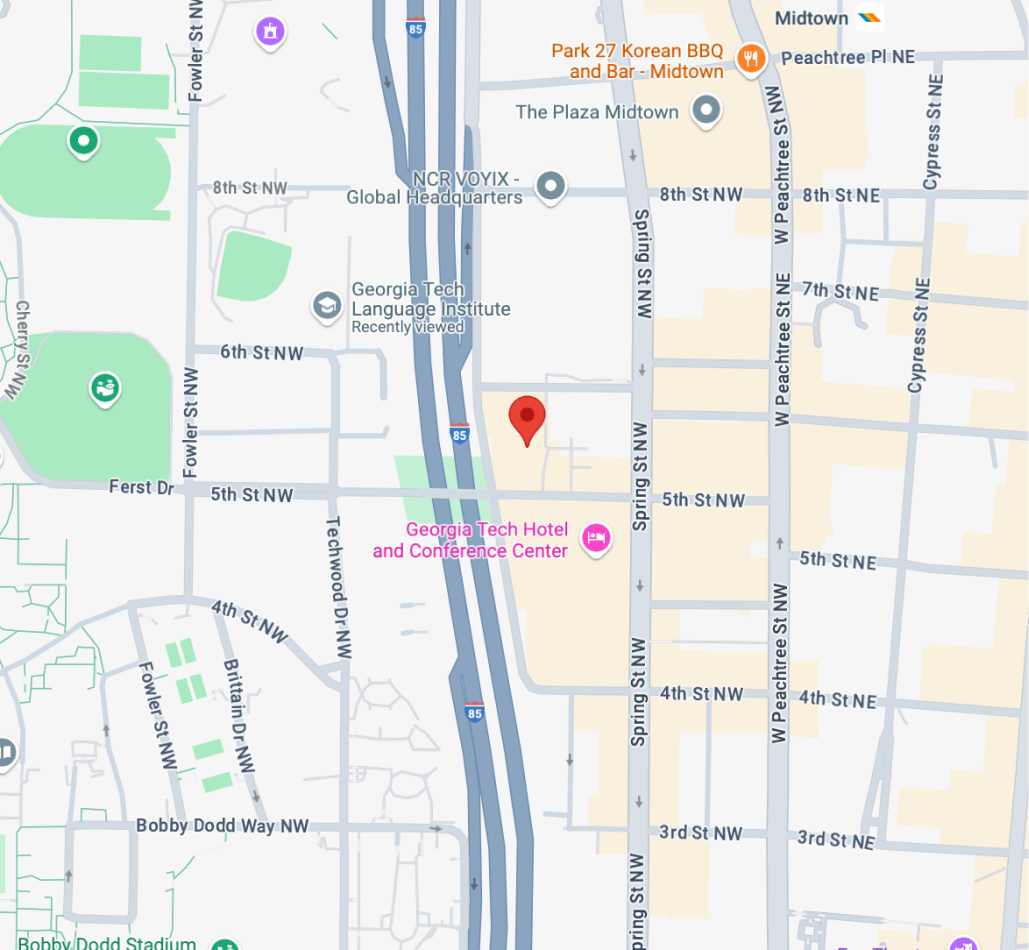
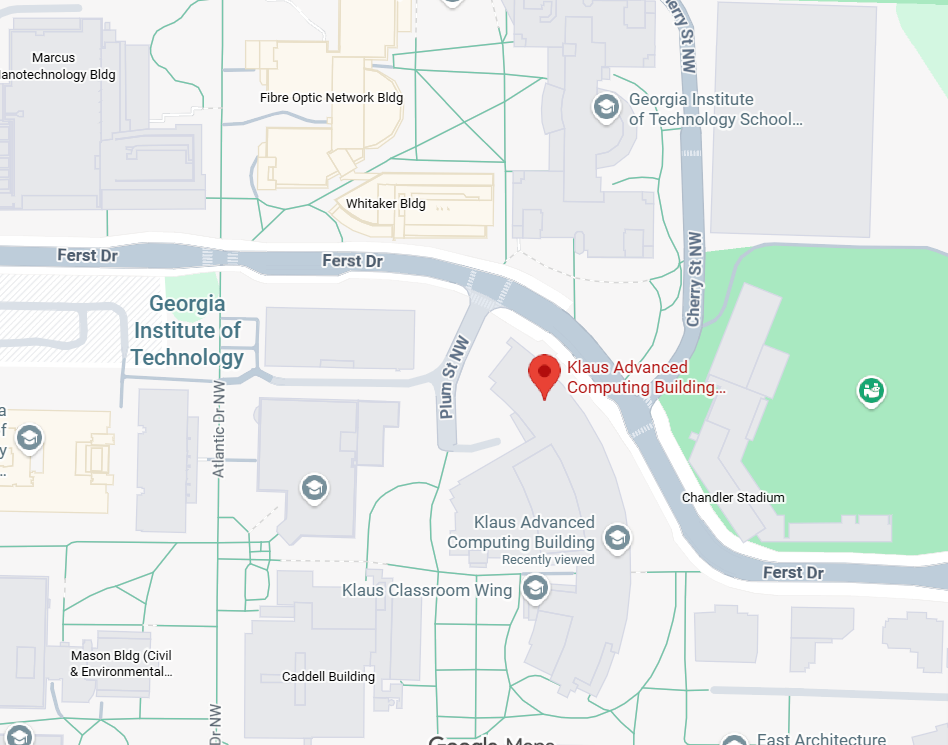
updates for hackathon 2026

diff --git a/src/components/Schedule.jsx b/src/components/Schedule.jsx
@@ -1,52 +1,13 @@
 const Schedule = () => {
-  const schedule = [
-    {
-      day: "Saturday",
-      date: "April 5th, 2025",
-      events: [
-        { time: "8:00 AM - 9:30 AM", event: "Welcome Breakfast, Check-In, & Late Registration" },
-        { time: "10:00 AM - 10:30 AM", event: "Hackathon Kickoff" },
-        { time: "10:30 AM - 11:30 AM", event: "Team Formation" },
-        { time: "11:30 AM - 12:30 PM", event: "Lunch and Networking" },
-        { time: "1:00 PM", event: "Hacking Begins" },
-        { time: "6:00 PM - 7:00 PM", event: "Dinner Served" },
-      ],
-    },
-    {
-      day: "Sunday",
-      date: "April 6th, 2025",
-      events: [
-        { time: "9:30 AM - 10:30 AM", event: "Breakfast" },
-        { time: "12:00 PM", event: "Hackathon Ends" },
-        { time: "12:00 PM - 1:30 PM", event: "Lunch" },
-        { time: "1:30 PM - 4:00 PM", event: "Judging & Skill-based Talk" },
-        { time: "4:00 PM", event: "Dinner Served" },
-        { time: "4:15 PM - 5:15 PM", event: "Award Ceremony and Closing Remarks" },
-      ],
-    },
-  ];
+  
 
   return (
-    <section id="schedule" className="font-[Roboto] py-25 px-8 bg-[#F9F6E5] flex justify-center item-center">
+    <section id="schedule" className="font-[Roboto] py-25 px-8 bg-[#F9F6E5] flex justify-center items-center">
       <div className="max-w-7xl mx-auto text-center">
         <h2 className="text-5xl font-bold mb-6 text-[#003057] font-[Anton]">Event Schedule</h2>
         <br />
-        <div className="grid grid-cols-1 md:grid-cols-2 gap-30">
-        {schedule.map(({ day, date, events }, index) => (
-          <div key={index} className="bg-[#003057] shadow rounded-lg p-6 text-white text-left">
-            <h3 className="text-3xl font-bold">{day}</h3>
-            <h4 className="text-lg mb-8 text-[#99CCF6]">{date}</h4>
-            <ul className="mt-2 space-y-4">
-              {events.map(({ time, event }, i) => (
-                <li key={i} className="">
-                  <span className="font-semibold text-lg">{time}:</span> 
-                  <br />
-                  <span className="text-xl">{event}</span>
-                </li>
-              ))}
-            </ul>
-          </div>
-        ))}
+        <div className="flex justify-center items-center">
+  <       img src="/images/schedules.png" alt="schedule" className="w-full h-auto rounded-lg shadow-md max-w-2xl" />
         </div>
       </div>
     </section>

diff --git a/src/components/About.jsx b/src/components/About.jsx
@@ -24,7 +24,7 @@ const About = () => {
           {/* Left: text */}
           <div className="flex-1">
             <p className="text-2xl text-left">
-              Georgia Tech's College of Computing introduces our inaugural co-sponsored hackathon: Ramblin' Hacks! This dynamic 2-day event will bring together talented students to tackle real-world challenges through creative coding and innovative solutions.
+              Georgia Tech's College of Computing introduces our second co-sponsored hackathon: Ramblin' Hacks! This dynamic 2-day event will bring together talented students to tackle real-world challenges through creative coding and innovative solutions.
             </p>
             <br />
             <div className="flex flex-row gap-2 items-center mt-6">
@@ -35,21 +35,19 @@ const About = () => {
               >
                 <img src={calendar} alt="calendar icon" className="w-11 h-auto" />
               </a>
-              <p className="text-2xl text-start">April 5th–6th</p>
+              <p className="text-2xl text-start">April 10th-11th</p>
             </div>
 
             <br />
             <div className="flex flex-row gap-2 items-center">
               <a
-                href="https://www.google.com/maps/search/?api=1&query=Tech+Square+Research+Building,+85+5th+St+NW,+Atlanta,+GA+30332"
-                target="_blank"
+                href="https://www.google.com/maps/place/Klaus+Advanced+Computing+Building,+Atrium/@33.7776843,-84.3987563,17z/data=!3m1!4b1!4m6!3m5!1s0x88f5052dfab4d669:0x8399d96b4a30b241!8m2!3d33.7776843!4d-84.3961814!16s%2Fg%2F11ff1yjjs8?entry=ttu&g_ep=EgoyMDI2MDMyNC4wIKXMDSoASAFQAw%3D%3D"
                 rel="noopener noreferrer"
               >
                 <img src={mappin} alt="map pin icon" className="w-11 h-auto cursor-pointer" />
               </a>
               <p className="text-2xl text-start">
-                Tech Square Research Building <br />
-                85 5th St NW, Atlanta, GA 30332
+                Klaus advanced computing building | 266 Ferst Dr, Atlanta, GA 30332
               </p>
             </div>
           </div>
@@ -61,6 +59,7 @@ const About = () => {
               alt="Google Maps location"
               className="w-full max-w-md rounded-xl shadow-md"
             />
+            
           </div>
         </div>
       </div>

diff --git a/src/components/Sponsors.jsx b/src/components/Sponsors.jsx
@@ -1,14 +1,14 @@
 const Sponsors = () => { 
   const sponsors = [
     {
-      name: "US Soccer",
-      image: "/images/us-soccer.png",
-      url: "https://www.ussoccer.com/",
+      name: "Playon! Sports",
+      image: "/images/playon.jpg",
+      url: "https://www.playonsports.com/",
     },
     {
-      name: "Geico",
-      image: "/images/geico.png",
-      url: "https://www.geico.com/",
+      name: "NCR Voyix",
+      image: "/images/ncr.png",
+      url: "https://www.ncr.com/voyix",
     },
     {
       name: "Elevance Health",
@@ -16,30 +16,15 @@ const Sponsors = () => {
       url: "https://www.elevancehealth.com/",
     },
     {
-      name: "Goldman Sachs",
-      image: "/images/goldman_sachs.png",
-      url: "https://www.goldmansachs.com/"
-    },
-    {
-      name: "Microsoft",
-      image: "/images/microsoft.png",
-      url: "https://www.microsoft.com/en-us/"
-    },
-    {
-      name: "Fanduel",
-      image: "/images/fanduel.png",
-      url: "https://www.fanduel.com/"
-    },
-    {
-      name: "The Trade Desk",
-      image: "/images/the-trade-desk.png",
-      url: "https://www.thetradedesk.com/"
+      name: "Cox Enterprises",
+      image: "/images/cox_enterprises.jpg",
+      url: "https://www.coxenterprises.com/"
     }
   ];
 
   return (
     <section id="sponsors" className="min-h-screen font-[Roboto] py-20 px-8 bg-[#F9F6E5] text-center justify-center flex items-center">
-      <div className="max-w-7xl mx-auto text-center">
+      <div className="max-w-7xl mx-auto text-center items-center">
         <h2 className="text-5xl font-bold text-[#003057] font-[Anton]">Our Sponsors</h2>
         <h3 className="text-xl text-black py-2">More to Come!</h3>
         <div className="flex flex-wrap justify-center gap-20 mt-12">
@@ -57,6 +42,10 @@ const Sponsors = () => {
               )}
             </a>
           ))}
+          
+        </div>
+        <div className="mt-12 flex justify-center">
+          <img src="/images/capital.jpg" alt="Capital One Sponsor" className="w-72 h-72 object-contain mx-auto" />
         </div>
       </div>
     </section>

diff --git a/src/components/Navbar.jsx b/src/components/Navbar.jsx
@@ -30,7 +30,7 @@ const Navbar = () => {
           </ul>
 
           <a
-            href="https://docs.google.com/forms/d/e/1FAIpQLSdmn-T8aAt8niUGLmrv7As7lZohtcov3WQFY7R-DGW5oxmRNQ/viewform"
+            href="https://docs.google.com/forms/d/e/1FAIpQLSeim4kVrtPL-fXyObyGl3Ex_9zSzKHW5ErLHfmCcVV6-Iy9xQ/viewform"
             target="_blank"
             rel="noopener noreferrer"
             className="hidden md:inline-block bg-[#003057] hover:bg-[#1E5684] text-white font-semibold py-2 px-4 rounded-[32px] transition"
@@ -67,7 +67,7 @@ const Navbar = () => {
         </ul>
 
         <a
-          href="https://docs.google.com/forms/d/e/1FAIpQLSdmn-T8aAt8niUGLmrv7As7lZohtcov3WQFY7R-DGW5oxmRNQ/viewform"
+          href="https://docs.google.com/forms/d/e/1FAIpQLSeim4kVrtPL-fXyObyGl3Ex_9zSzKHW5ErLHfmCcVV6-Iy9xQ/viewform"
           target="_blank"
           rel="noopener noreferrer"
           className="items-center text-lg text-white block w-fit mx-auto"

diff --git a/src/components/Landing.jsx b/src/components/Landing.jsx
@@ -16,10 +16,10 @@ const Landing = () => {
       <div className="relative z-10">
         <h2 className="text-2xl text-black mt-5">Introducing the Inaugural GT College of Computing x Corporate Affiliates Program Hackathon</h2>
         <img src={home} alt="home-visual" className="w-275 h-auto items-center" />
-        <h2 className="text-3xl text-black">April 5th-6th | Tech Square Research Building | Georgia Tech</h2>
+        <h2 className="text-3xl text-black">April 10th-11th | Klaus Advanced Computing Building | 266 Ferst Dr, Atlanta, GA 30332</h2>
         <br />
           <a
-            href="https://docs.google.com/forms/d/e/1FAIpQLSdmn-T8aAt8niUGLmrv7As7lZohtcov3WQFY7R-DGW5oxmRNQ/viewform"
+            href="https://forms.gle/WyMsG5KNWLtXRrQo8"
             target="_blank"
             rel="noopener noreferrer"
             className="bg-[#003057] text-white px-6 py-3 rounded-[32px] text-lg font-semibold hover:bg-[#397BB1]"

diff --git a/src/components/Tracks.jsx b/src/components/Tracks.jsx
@@ -42,7 +42,7 @@ const Tracks = () => {
               transition-transform duration-300 ease-in-out hover:scale-110 clip-hexagon`}
             >
               <h3 className="absolute inset-0 text-center flex justify-center items-center text-2xl font-semibold px-4 leading-tight whitespace-normal">
-                {track.title}
+                {/* {track.title} */}
               </h3>
             </div>
           ))}
